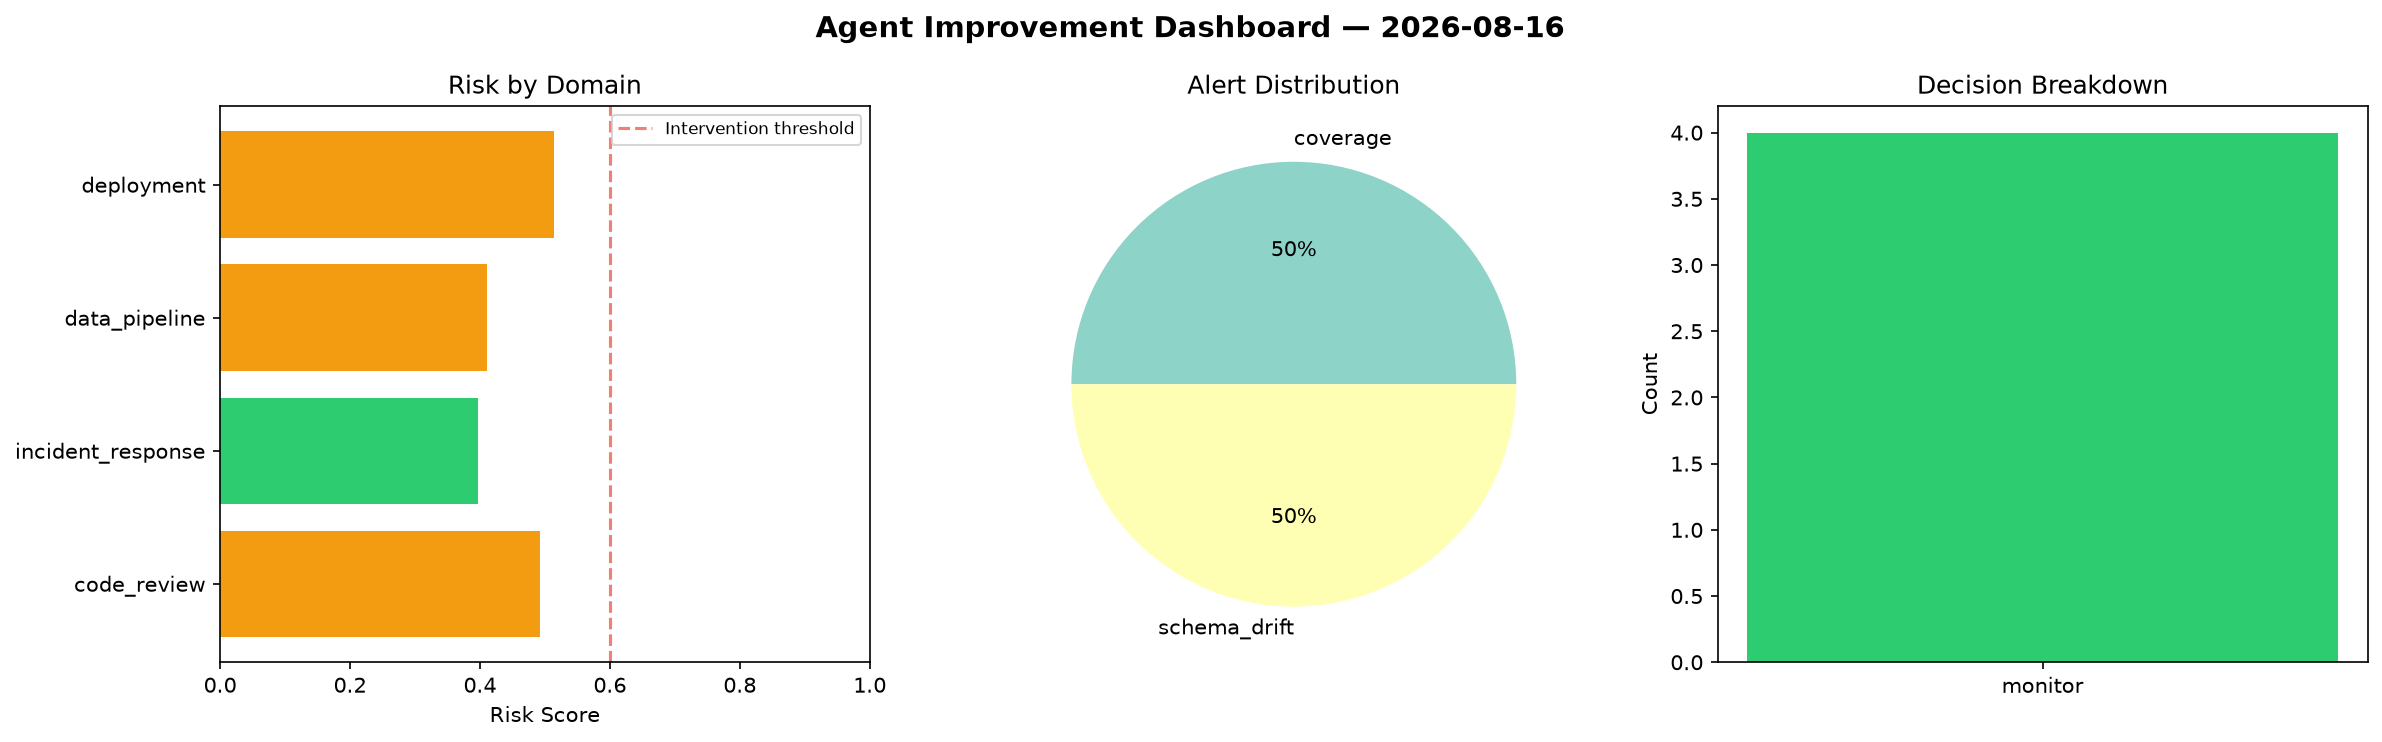
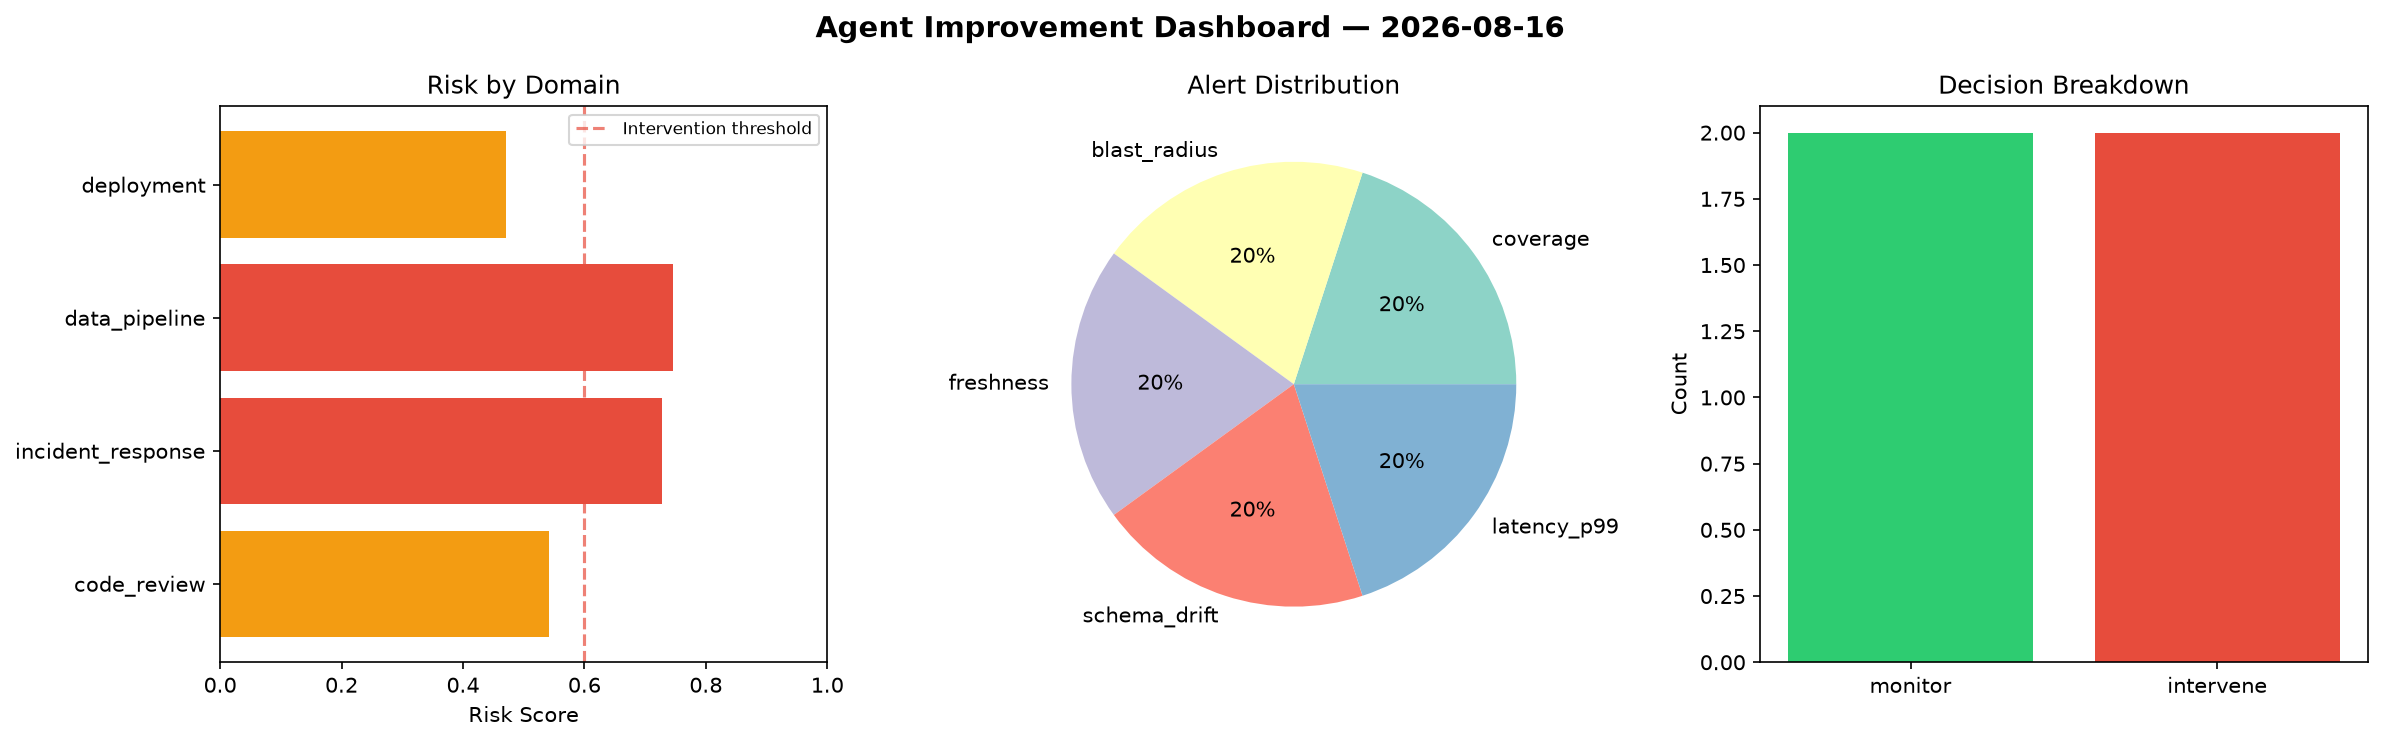
agent-improvement: daily cycle 2026-08-16T08:46

diff --git a/logs/2026-08-16.md b/logs/2026-08-16.md
@@ -1,6 +1,6 @@
 # Agent Improvement Report — 2026-08-16
 
-**Cycle ID:** `86dc160c` | **Avg Risk:** 0.454 | **Interventions:** 0/4
+**Cycle ID:** `5c870bf3` | **Avg Risk:** 0.6212 | **Interventions:** 2/4
 
 ![Dashboard](2026-08-16_dashboard.png)
 
@@ -10,18 +10,18 @@
 
 | Domain | Risk Score | Decision | Alerts |
 |--------|-----------|----------|--------|
-| code_review | 0.4926 | monitor | coverage |
-| incident_response | 0.3973 | monitor | none |
-| data_pipeline | 0.4113 | monitor | schema_drift |
-| deployment | 0.5147 | monitor | none |
+| code_review | 0.5412 | monitor | coverage |
+| incident_response | 0.7276 | intervene | blast_radius |
+| data_pipeline | 0.7457 | intervene | freshness, schema_drift |
+| deployment | 0.4703 | monitor | latency_p99 |
 
 ## Delta vs Yesterday
 
 | Domain | Today | Yesterday | Change |
 |--------|-------|-----------|--------|
-| code_review | 0.4926 | 0.4102 | 📈 20.1% |
-| incident_response | 0.3973 | 0.3208 | 📈 23.8% |
-| data_pipeline | 0.4113 | 0.2854 | 📈 44.1% |
-| deployment | 0.5147 | 0.3952 | 📈 30.2% |
+| code_review | 0.5412 | 0.4102 | 📈 31.9% |
+| incident_response | 0.7276 | 0.3208 | 📈 126.8% |
+| data_pipeline | 0.7457 | 0.2854 | 📈 161.3% |
+| deployment | 0.4703 | 0.3952 | 📈 19.0% |
 
-**Refinement:** `{'adjustment': 'tighten_thresholds', 'trend': 'degrading', 'window': 4}`
+**Refinement:** `{'adjustment': 'maintain', 'trend': 'improving', 'window': 4}`
